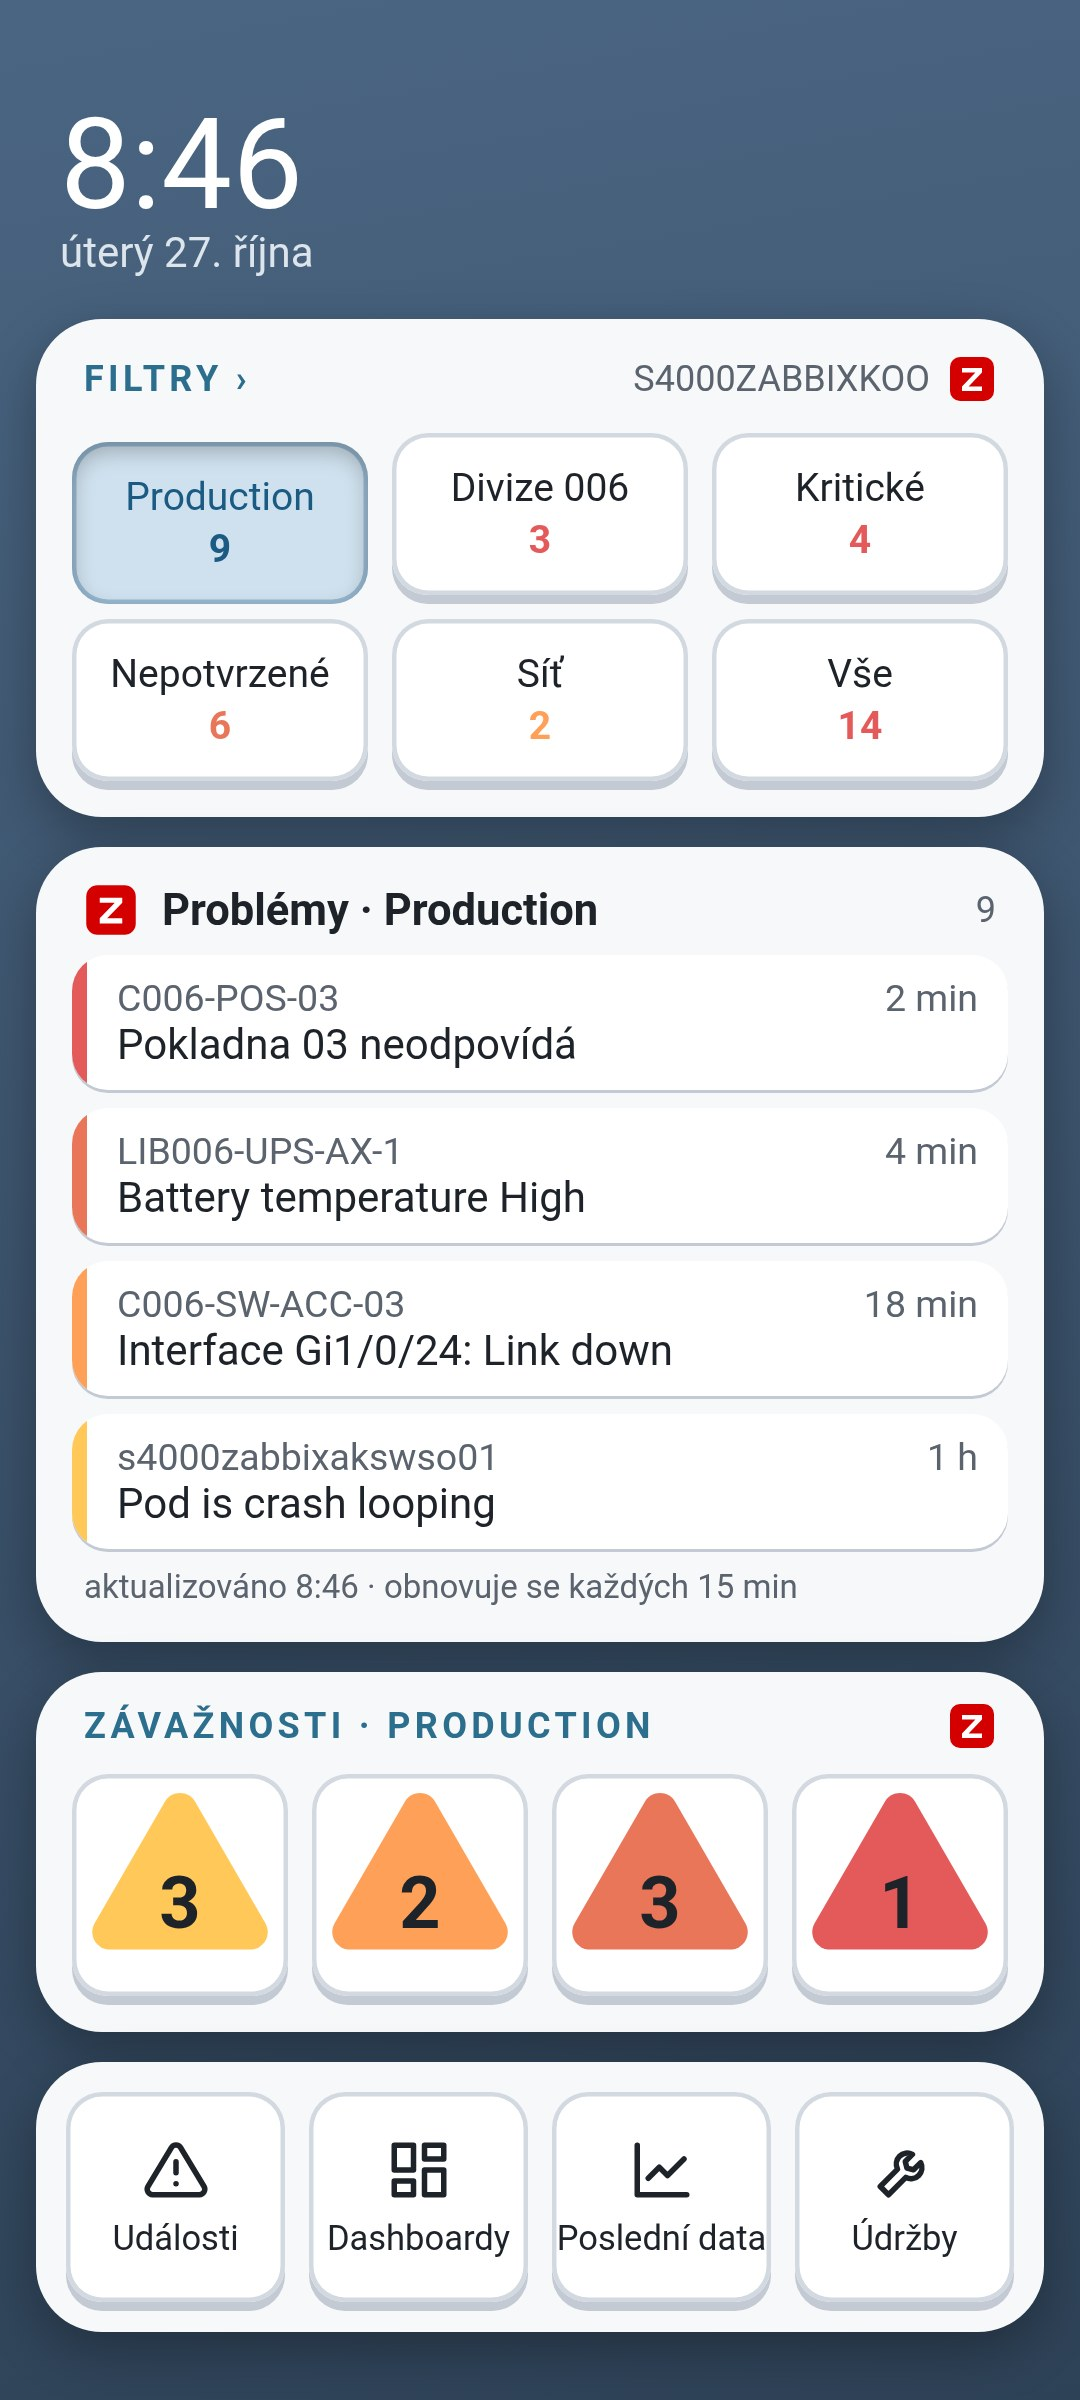
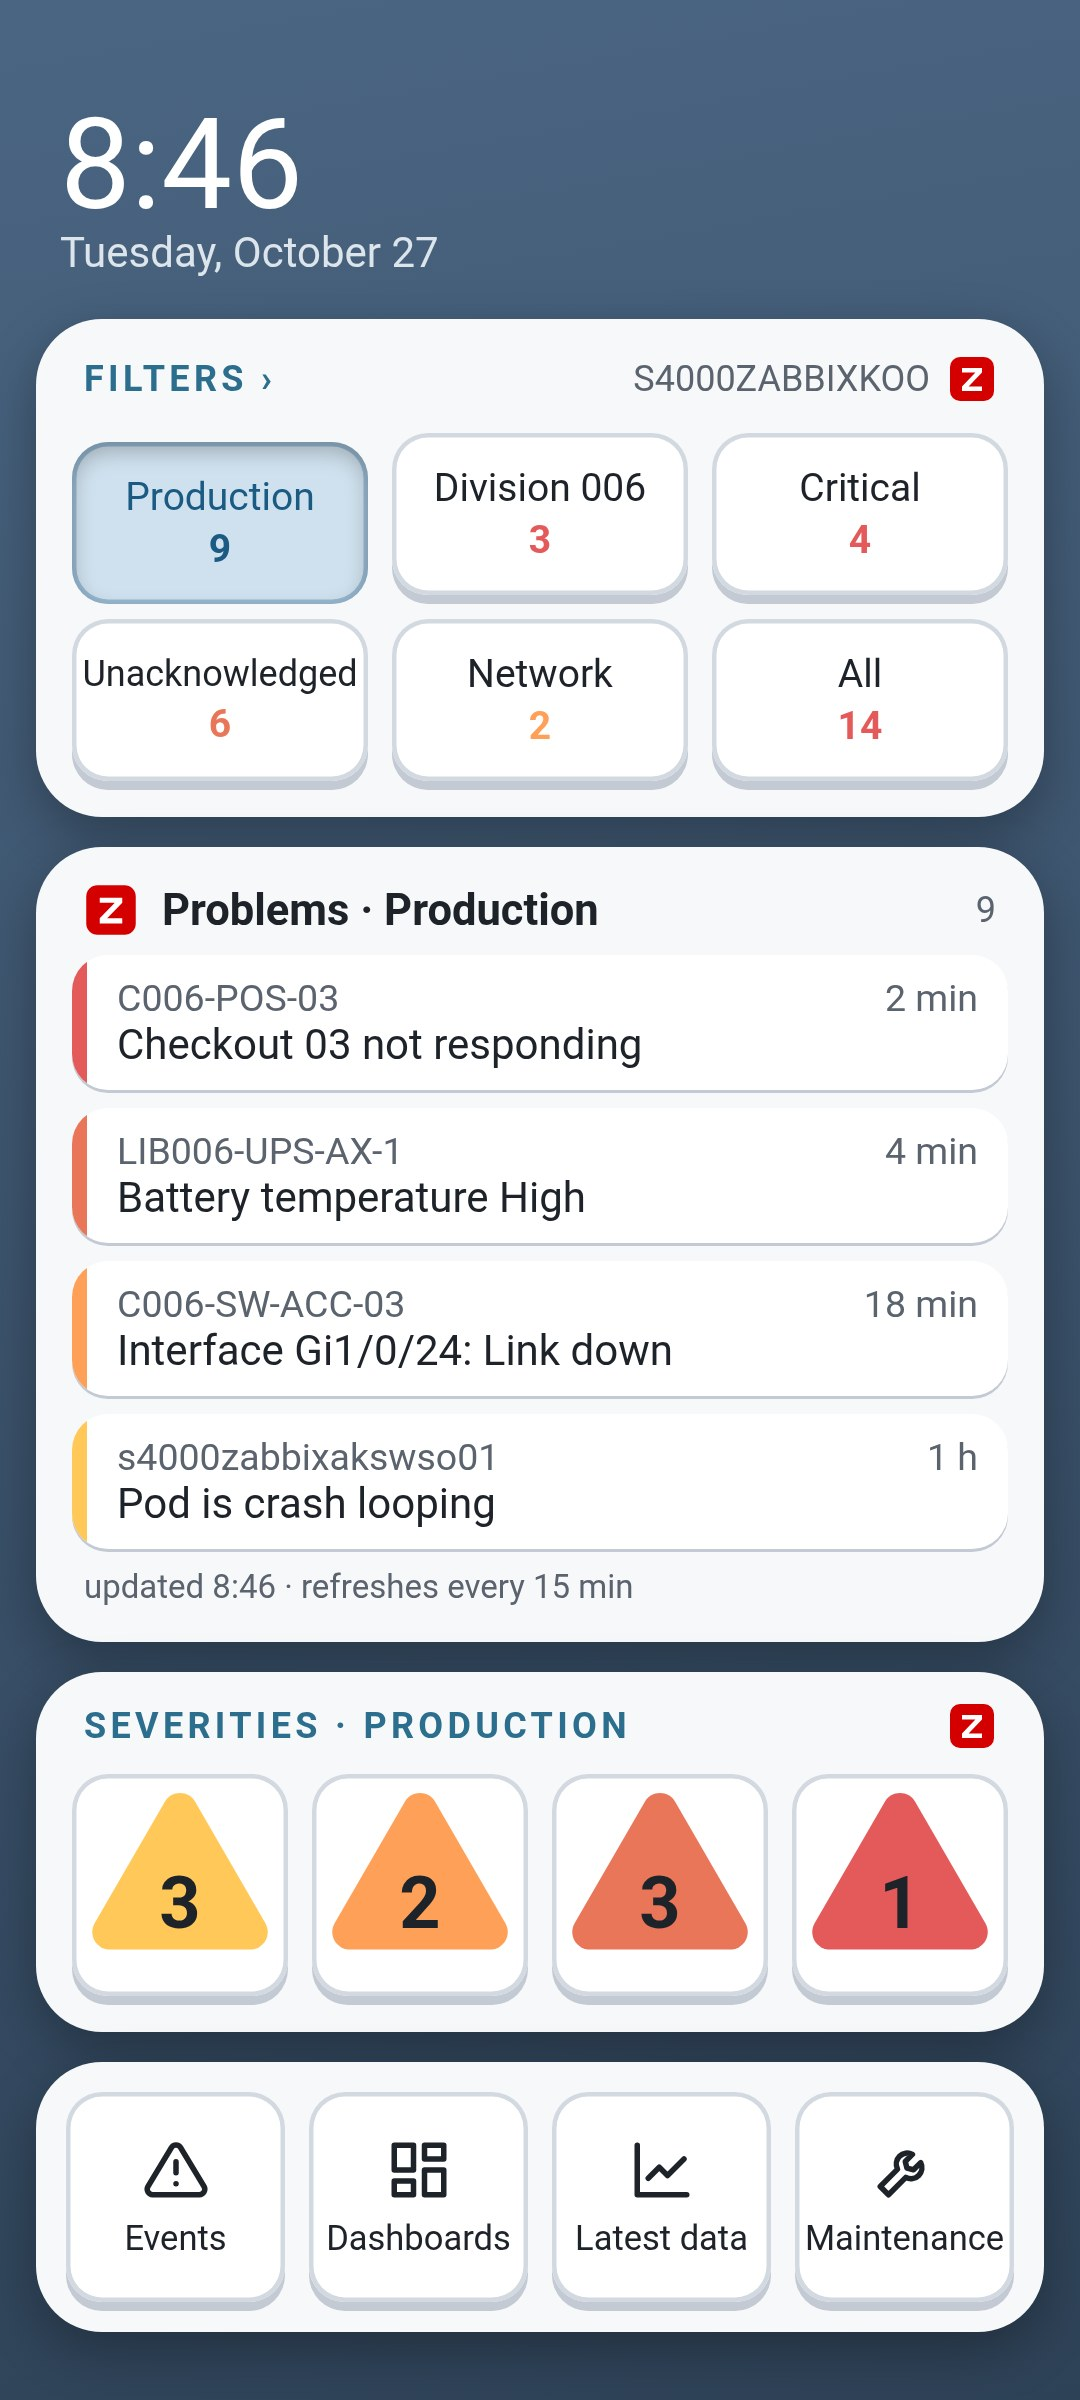
web: widget screenshots in English (labels and trigger names)

diff --git a/index.html b/index.html
@@ -193,7 +193,7 @@
           </ul>
         </div>
         <div class="sc-media">
-          <div class="dev dev-phone dev-phone-lg"><img src="assets/shot50_mobile.jpg" alt="ZbxView – widgety na ploše" loading="lazy" /></div>
+          <div class="dev dev-phone dev-phone-lg"><img src="assets/shot50_mobile.jpg" alt="ZbxView – home-screen widgets" loading="lazy" /></div>
           <p class="sc-cap"><svg class="ic"><use href="#i-phone"/></svg><span data-i18n="sc4_cap"><b>Widgety</b> · Nastavení → Widgety určí filtry, zkratky a obnovu</span></p>
         </div>
       </div>
